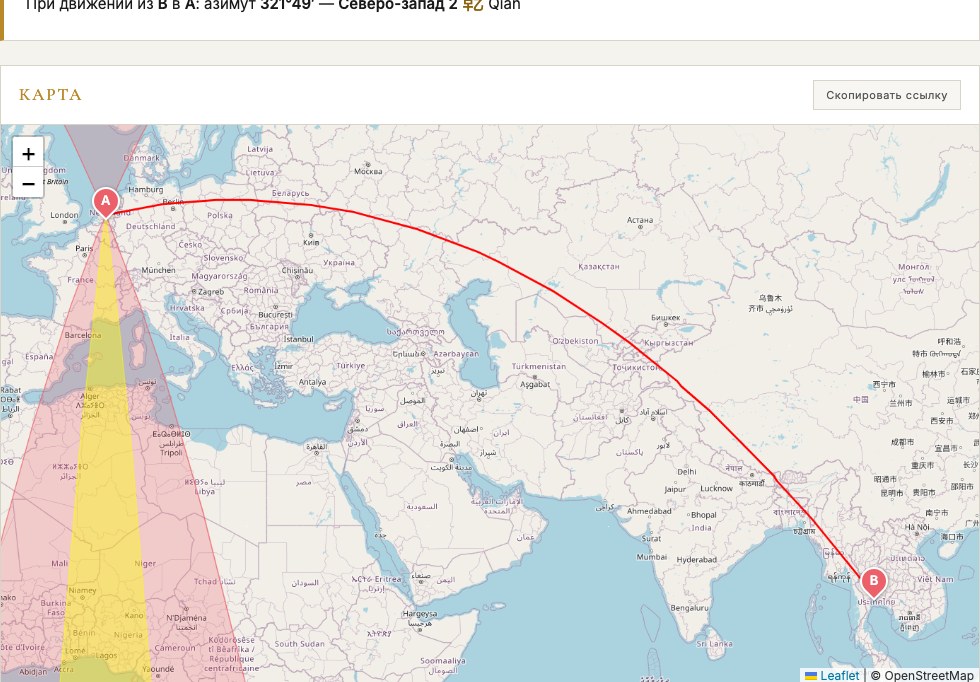
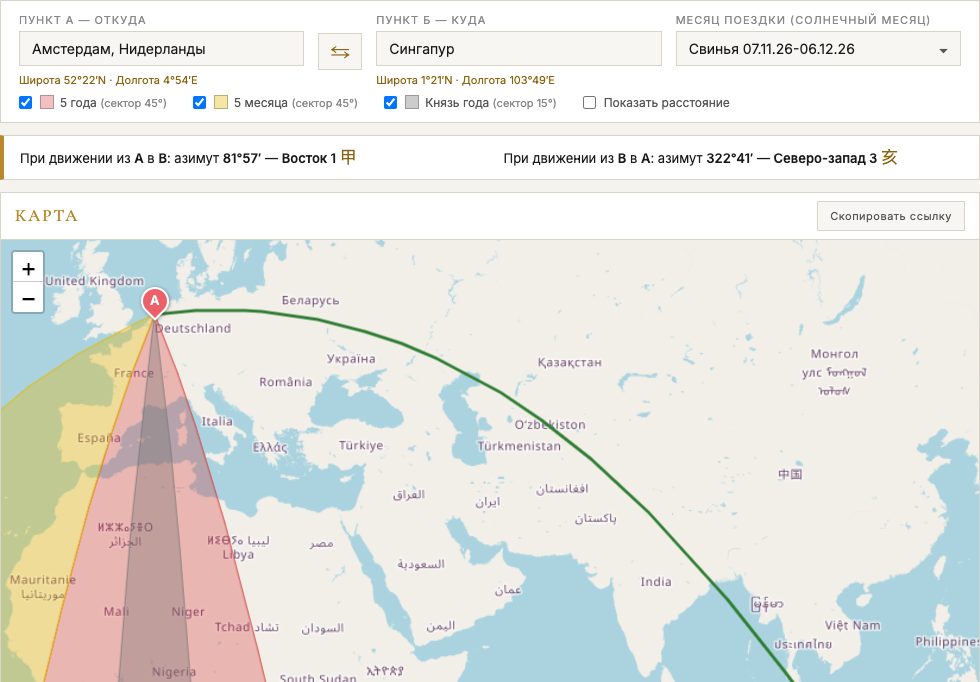
Calculators: new Travel directions preview (red/yellow/grey sectors, no flag)

diff --git a/calculators.html b/calculators.html
@@ -488,7 +488,7 @@
           </a>
         </div>
         <a href="/traveldirections" class="card-screenshot card-open">
-          <img src="images/calculators/traveldirections.png" alt="Travel Directions Calculator preview" loading="lazy">
+          <img src="images/calculators/traveldirections.png?v=2" alt="Travel Directions Calculator preview" loading="lazy">
         </a>
       </div>
 
